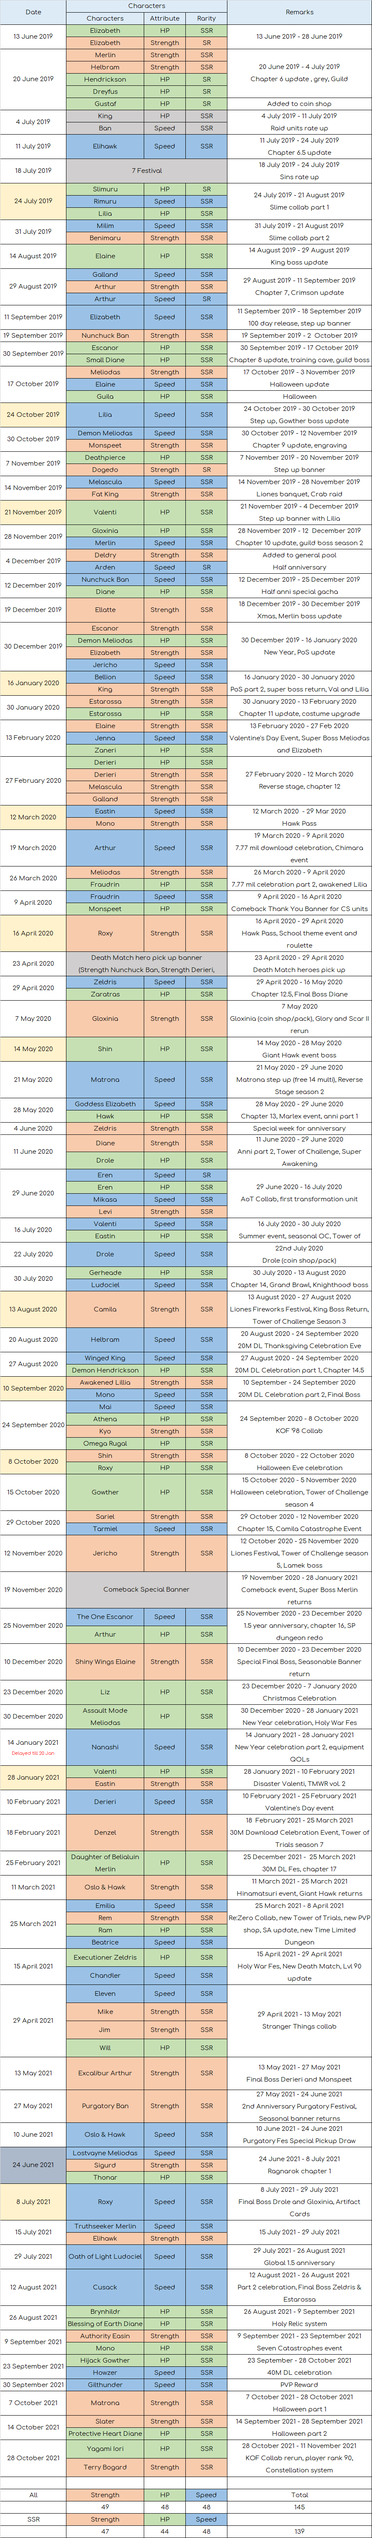
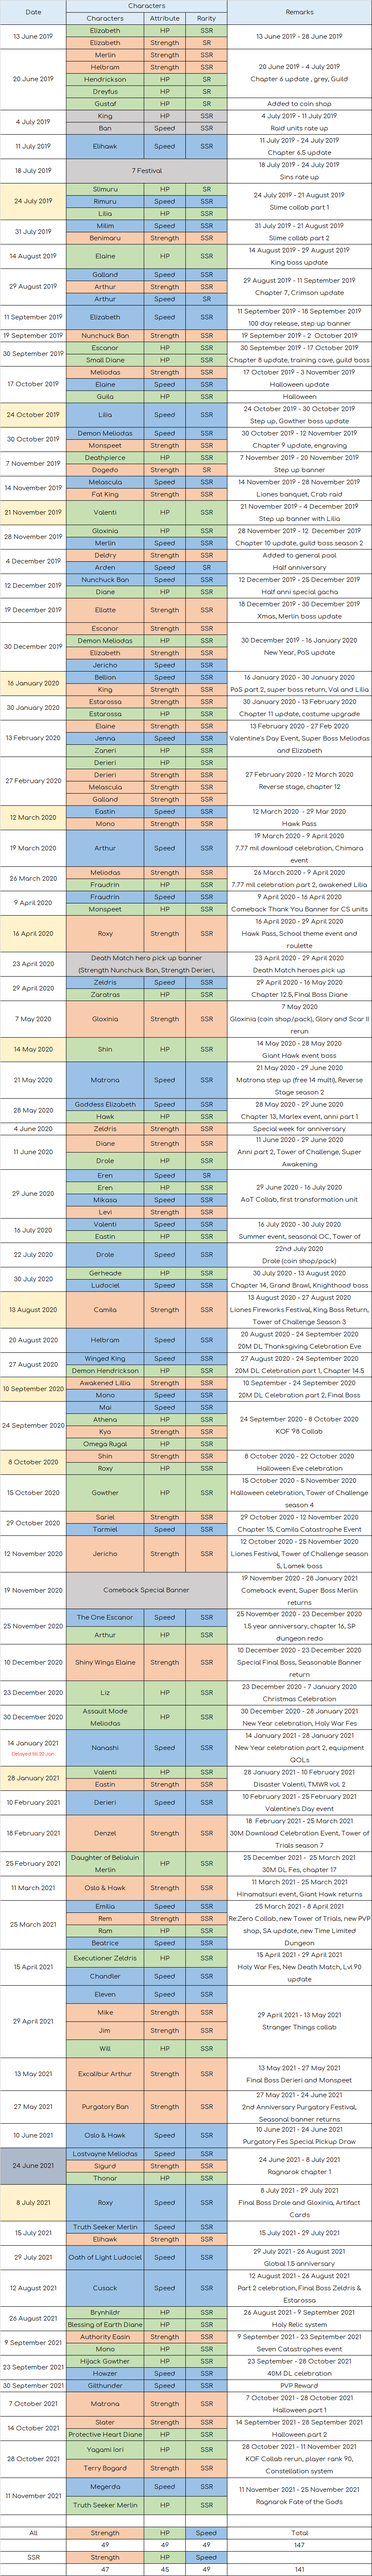
ud

diff --git a/patchnotes.html b/patchnotes.html
@@ -5,7 +5,7 @@
 	<meta name="viewport" content="width=device-width, initial-scale=1, shrink-to-fit=no">
 	<meta name="description" content="">
 	<meta name="author" content="">
-	<title>KOF Collab skills!</title>
+	<title>Ragnarok Fate of the Gods!</title>
 	<!-- Favicons -->
 	<link href="images/favicon.png" rel="icon">
 	<link href="images/apple-touch-icon.png" rel="apple-touch-icon">
@@ -89,77 +89,42 @@
 					(adsbygoogle = window.adsbygoogle || []).push({});
 				</script>
 				
-				<h2 class="mb-2">KOF Collab Skills!</h2>
+				<h2 class="mb-2">Ragnarok Fate of the Gods</h2>
 			</div>
 
 
 
 			<div class="greytheme whitetext mb-3" style="padding: 0.5rem 1rem;">
 
-				<p><b><u>■ SSR &#91;KOF '98&#93; Terry Bogard</u></b><br><a href="https://youtu.be/FMByE37kLwU">(click for ult animation)</a></p>
+				<p><b><u>■ SSR &#91;Guide of Valhalla&#93; Valkyrie Megerda</u></b><br><a href="https://youtu.be/06IxUtIHID8">(click for ult animation)</a></p>
 				<div class="container pb-3 img-responsive" style="text-align: center; justify-content: center;">
-					<img src="images/patchnotes/28oct2021/terry.png" style="max-width:100%; max-height:100%;" loading="lazy">
+					<img src="images/patchnotes/11nov2021/megerda.png" style="max-width:100%; max-height:100%;" loading="lazy">
 				</div>
 
 				<hr style="border-color: white">
 
-				<p><b><u>■ SSR &#91;KOF '98&#93; Yagami Iori</u></b><br><a href="https://youtu.be/Km_jf5M4554">(click for ult animation)</a></p>
+				<p><b><u>■ SSR &#91;Ragnarok&#93; Truth Seeker Merlin</u></b><br><a href="https://youtu.be/VedS-FU5aHY">(click for ult animation)</a></p>
 				<div class="container pb-3 img-responsive" style="text-align: center; justify-content: center;">
-					<img src="images/patchnotes/28oct2021/yagami.png" style="max-width:100%; max-height:100%;" loading="lazy">
+					<img src="images/patchnotes/11nov2021/merlin.png" style="max-width:100%; max-height:100%;" loading="lazy">
 				</div>
 
 				<hr style="border-color: white">
-
-				<p><b><u>■ Collab Banner</p></u></b>
+				
+				<p><b><u>■ New Relics</p></u></b>
 				<div class="container pb-3 img-responsive" style="text-align: center; justify-content: center;">
-					<img src="images/patchnotes/28oct2021/rates.png" style="max-width:100%; max-height:100%;" loading="lazy">
-				</div>
-				<p>At 300 pity you get a GSSR, at 600 pity you get to choose between the 2 new collab units.</p>
-
-				<p>There is also a cash banner where you can choose one out of the 4 old KOF collab units.</p>
-
-				<hr style="border-color: white">
-
-				<p><b><u>■ Collab Relics</p></u></b>
-				<p>6 new relics added for the collab units. To craft these relics, you do not have to farm the usual demonic beast Hraesvelgr. You can use the following material obtained from the various collab events to craft the relics.</p>
-				<div class="container pb-3 img-responsive" style="text-align: center; justify-content: center;">
-					<img src="images/patchnotes/28oct2021/reliccraft.png" style="max-width:100%; max-height:100%;" loading="lazy">
-				</div>
-
-				<div class="container pb-3 img-responsive" style="text-align: center; justify-content: center;">
-					<img src="images/patchnotes/28oct2021/relic.png" style="max-width:100%; max-height:100%;" loading="lazy">
-				</div>
-
-				<hr style="border-color: white">
-
-				<p><b><u>■ Speical Missions</p></u></b>
-				<div class="container pb-3 img-responsive" style="text-align: center; justify-content: center;">
-					<img src="images/patchnotes/28oct2021/specialmission.png" style="max-width:100%; max-height:100%;" loading="lazy">
+					<img src="images/patchnotes/11nov2021/relic.png" style="max-width:100%; max-height:100%;" loading="lazy">
 				</div>
 
 				<hr style="border-color: white">
 
 				<p><b><u>■ System Changes</p></u></b>
-				<p>1. Player rank increases from 80 to 90.</p>
-				<p>2. Account CC Buff added for:
-					<br>6mil: increases HP by 12.5%
-					<br>8mil: increases HP by 13%
-					<br>10mil: increases HP by 14%
-					<br>12mil: increases HP by 15%.
+				<p>1. Hell Difficulty for Demonic Beast Belgius added. New battle score rewards are added.</p>
+				<div class="container pb-3 img-responsive" style="text-align: center; justify-content: center;">
+					<img src="https://7taizai.netmarble.jp/file/imgs/2eed703e.png" style="max-width:100%; max-height:100%;" loading="lazy">
+				</div>
+				<p>2.Hraesvelgr nest 2 phase 2 changes.<br>Before: At the end of ally's turns, removes all buffs from the enemies.<br>After: At teh end of ally's turns for 5 turns, decreases Attack and Defense of enemies by 5% (stacks up to 5 times)</p>
 				</p>
-				<p>3. [Seven Constellations] system added.
-					<br>
-					Unlock the system when you have 80 or more units. It is a group-growth system that allows you to acquire additional buffs and stats as you collect and grow more characters. Access the page by clicking "Account Combat Class" button on character page.  Unlock the next constellation by completing the previous one. When each of the constellation is completed, you get various rewards.
-					<div class="container pb-3 img-responsive" style="text-align: center; justify-content: center;">
-						<img src="https://7taizai.netmarble.jp/file/imgs/727965fa.png" style="max-width:100%; max-height:100%;" loading="lazy">
-					</div>
-					<div class="container pb-3 img-responsive" style="text-align: center; justify-content: center;">
-						<img src="https://7taizai.netmarble.jp/file/imgs/0f44658e.png" style="max-width:100%; max-height:100%;" loading="lazy">
-					</div>
-					<p>Use Growth Point [GP] to activate all stones [Red, Green, Blue] and Mana Stone in the constellation to get buffs. When the stone is activated, Attack, Defense and HP stats will be buffed. [GP] can be obtained when you:<br>Obtain a new unit<br>Evolve, Awaken, Super Awaken, level up the ultimate move<br>Obtain costumes</p>
-				</p>
-				<p>4. You can now skip animations on: Gear salvage/engrave, character evolve, awaken/SA, level up ult</p>
-				<p>5. Max limit for friendship coin removed</p>
+				<p class="mb-0">3. You can delete up to 30 friends a day now (previously 10)</p>
 			</div>
 
 			<script async src="https://pagead2.googlesyndication.com/pagead/js/adsbygoogle.js"></script>

diff --git a/index.html b/index.html
@@ -115,11 +115,21 @@
 				<div class="whitetext greytheme mb-4">
 					<ul class="nav nav-tabs">
 						<li class="nav-item" style="display: block;">
-							<a href="#patchnotes" class="nav-link active" data-toggle="tab">Halloween Translation</a>
+							<a href="#patchnotes" class="nav-link active" data-toggle="tab">Ragnarok Update</a>
+						</li>
+						<li class="nav-item" style="display: block;">
+							<a href="#kofcollabpatch" class="nav-link" data-toggle="tab">KOF Collab</a>
 						</li>
 					</ul>
 					<div class="tab-content">
 						<div class="tab-pane fade active show greytheme" id="patchnotes">
+							<div class="jumbotron darktheme" style="padding: 0">
+								<div class="img-responsive" style="justify-content: center;">
+									<a href="megerdamerlinpatch"><img src="images/banners/11nov2021.png" style="max-width: 100%; max-height: 100%;" loading="lazy" loading="lazy"></img></a>
+								</div>
+							</div>
+						</div>
+						<div class="tab-pane fade greytheme" id="kofcollabpatch">
 							<div class="jumbotron darktheme" style="padding: 0">
 								<div class="img-responsive" style="justify-content: center;">
 									<a href="kofcollabpatch"><img src="images/banners/28oct2021.png" style="max-width: 100%; max-height: 100%;" loading="lazy" loading="lazy"></img></a>

diff --git a/kofcollabpatch.html b/kofcollabpatch.html
@@ -103,7 +103,7 @@
 
 				<hr style="border-color: white">
 
-				<p><b><u>■ SSR &#91;KOF '98&#93; Yagami Iori</u></b><br><a href="https://youtu.be/Km_jf5M4554">(click for ult animation)</a></p>
+				<p><b><u>■ SSR &#91;KOF '98&#93; Iori Yagami</u></b><br><a href="https://youtu.be/Km_jf5M4554">(click for ult animation)</a></p>
 				<div class="container pb-3 img-responsive" style="text-align: center; justify-content: center;">
 					<img src="images/patchnotes/28oct2021/yagami.png" style="max-width:100%; max-height:100%;" loading="lazy">
 				</div>
